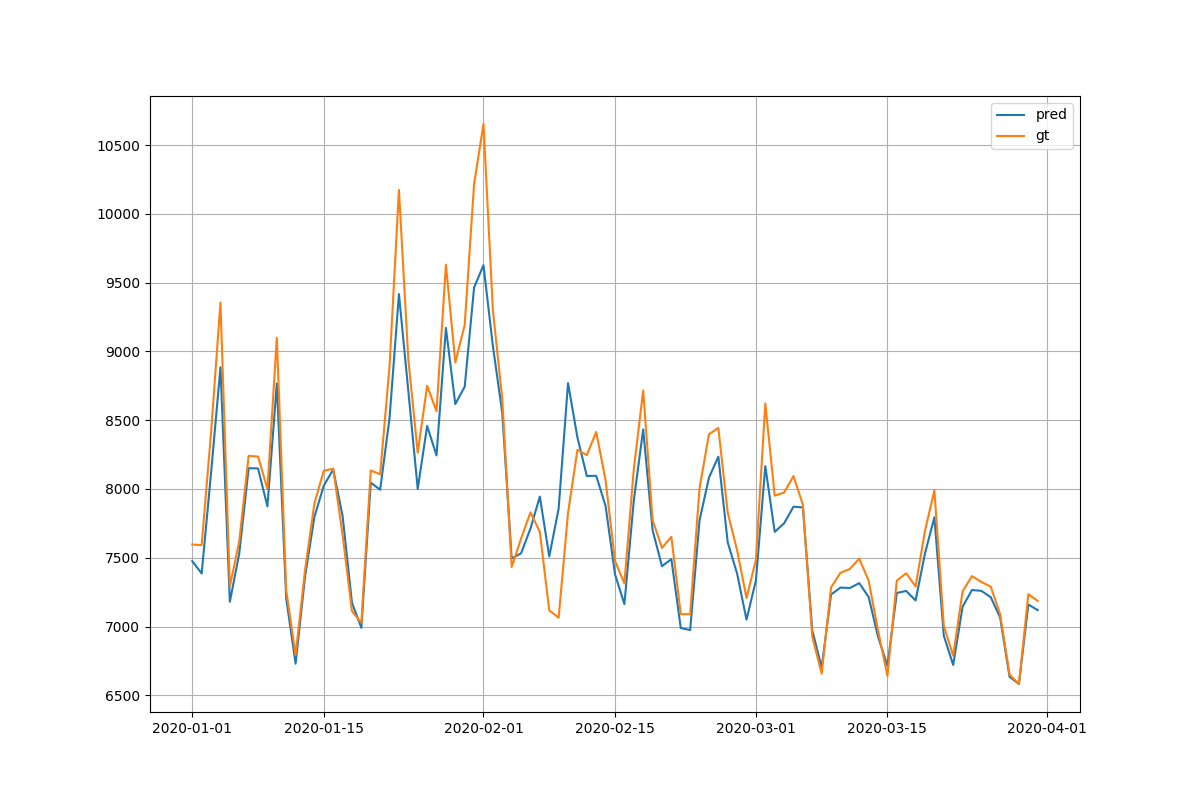
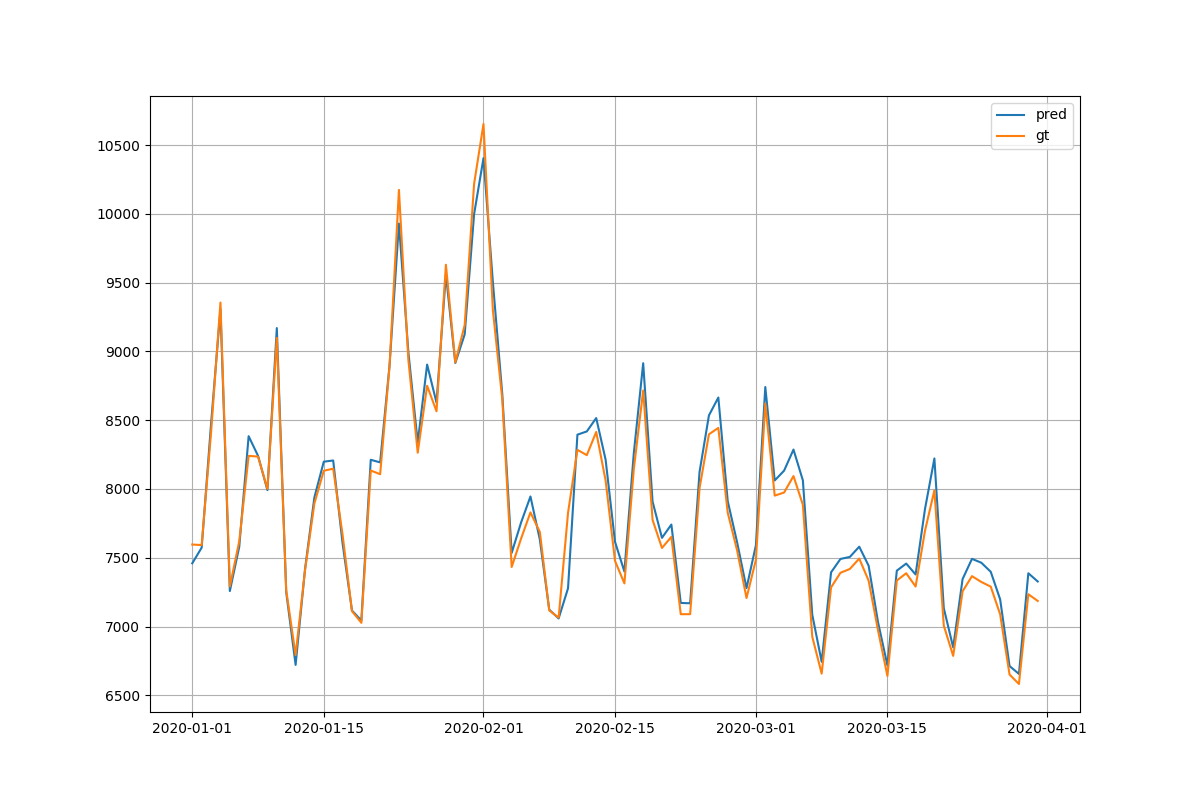
added info

diff --git a/ts_main.py b/ts_main.py
@@ -38,7 +38,7 @@ def train():
     ts_model.compile(optimizer=tf.keras.optimizers.Adam(), loss=tf.keras.losses.Huber())
     # model_path = os.path.join(conf.model_dir, "tsmodel-{epoch:03d}-{val_loss:03f}.h5")
     model_path = os.path.join(conf.model_dir, "tsmodel.h5") # it's good to overide the existing one
-    cb_checkpoint = tf.keras.callbacks.ModelCheckpoint(model_path, verbose=1, monitor='val_loss',save_best_only=True, mode='auto')
+    cb_checkpoint = tf.keras.callbacks.ModelCheckpoint(model_path, verbose=1, monitor='loss',save_best_only=True, mode='auto') # good way is to monitor val_loss and save the best model
     cb_tensorboad = tf.keras.callbacks.TensorBoard(log_dir=curr_log_dir)
     cb_reduce_lr = tf.keras.callbacks.LearningRateScheduler(lambda x: 1e-3 * 0.90 ** x)
     call_backs = [cb_checkpoint,cb_tensorboad, cb_reduce_lr]
@@ -110,5 +110,5 @@ def predict_n_ahead(model, PROIR_X, n_ahead: int):
     return yhat
 
 if __name__ == "__main__":
-    train()
+    # train()
     evaluate()

diff --git a/conf.py b/conf.py
@@ -5,7 +5,7 @@ n_past = 20 # number of past data to use
 n_ahead = 1 # number of ahead data to predict
 n_features = 7 # number of features in the dataset
 n_lstmLayers = 100 # number of layers in the lstm
-n_train_epochs = 2
+n_train_epochs = 200
 train_batchSize = 64
 model_dir = "models"
 log_dir = "logs"

diff --git a/README.md b/README.md
@@ -3,6 +3,10 @@
 virtualenv -p python3.7 deep_ts
 source deep_ts/bin/activate
 ```
+# clone the repo
+```
+git clone https://github.com/sabeshuom/deep_ts
+```
 # Install required python packages
 ```
 pip install -r requirements.txt
@@ -10,8 +14,12 @@ pip install -r requirements.txt
 # Training 
 Set the model config and paths in conf.py and run train.py
 ```
-python train.py
+python ts_main.py --train
 ```
+# Testing
+
+python ts_main.py --test
+
 # Directory Structure
 ./data - contains data for Train.csv, Val.csv, Test.csv 
 ./models - all the models .h5
